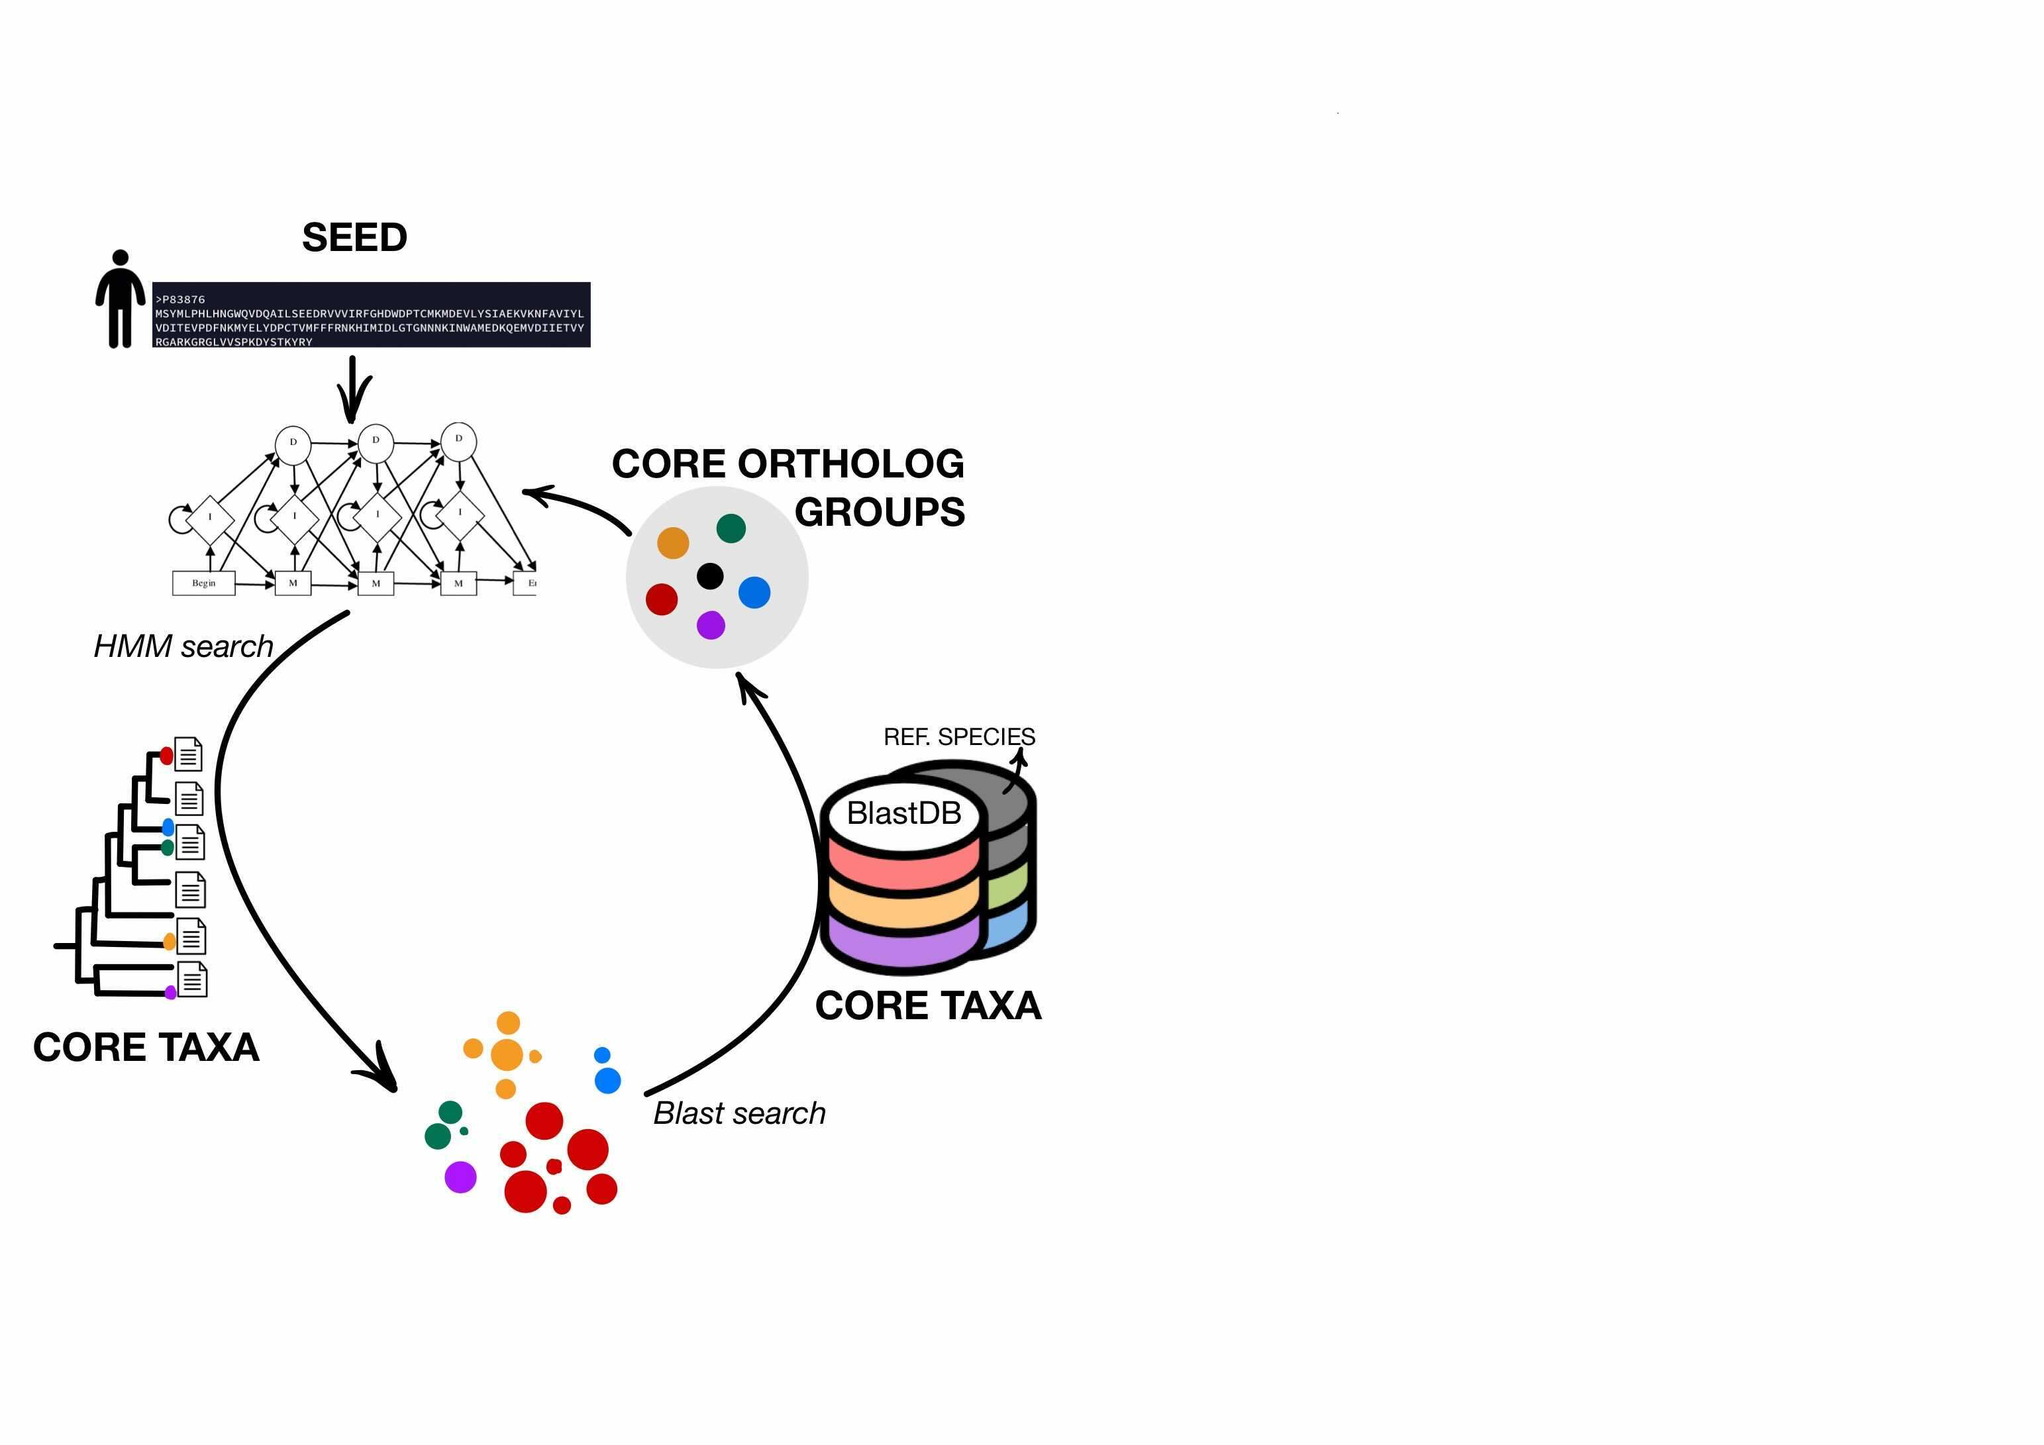
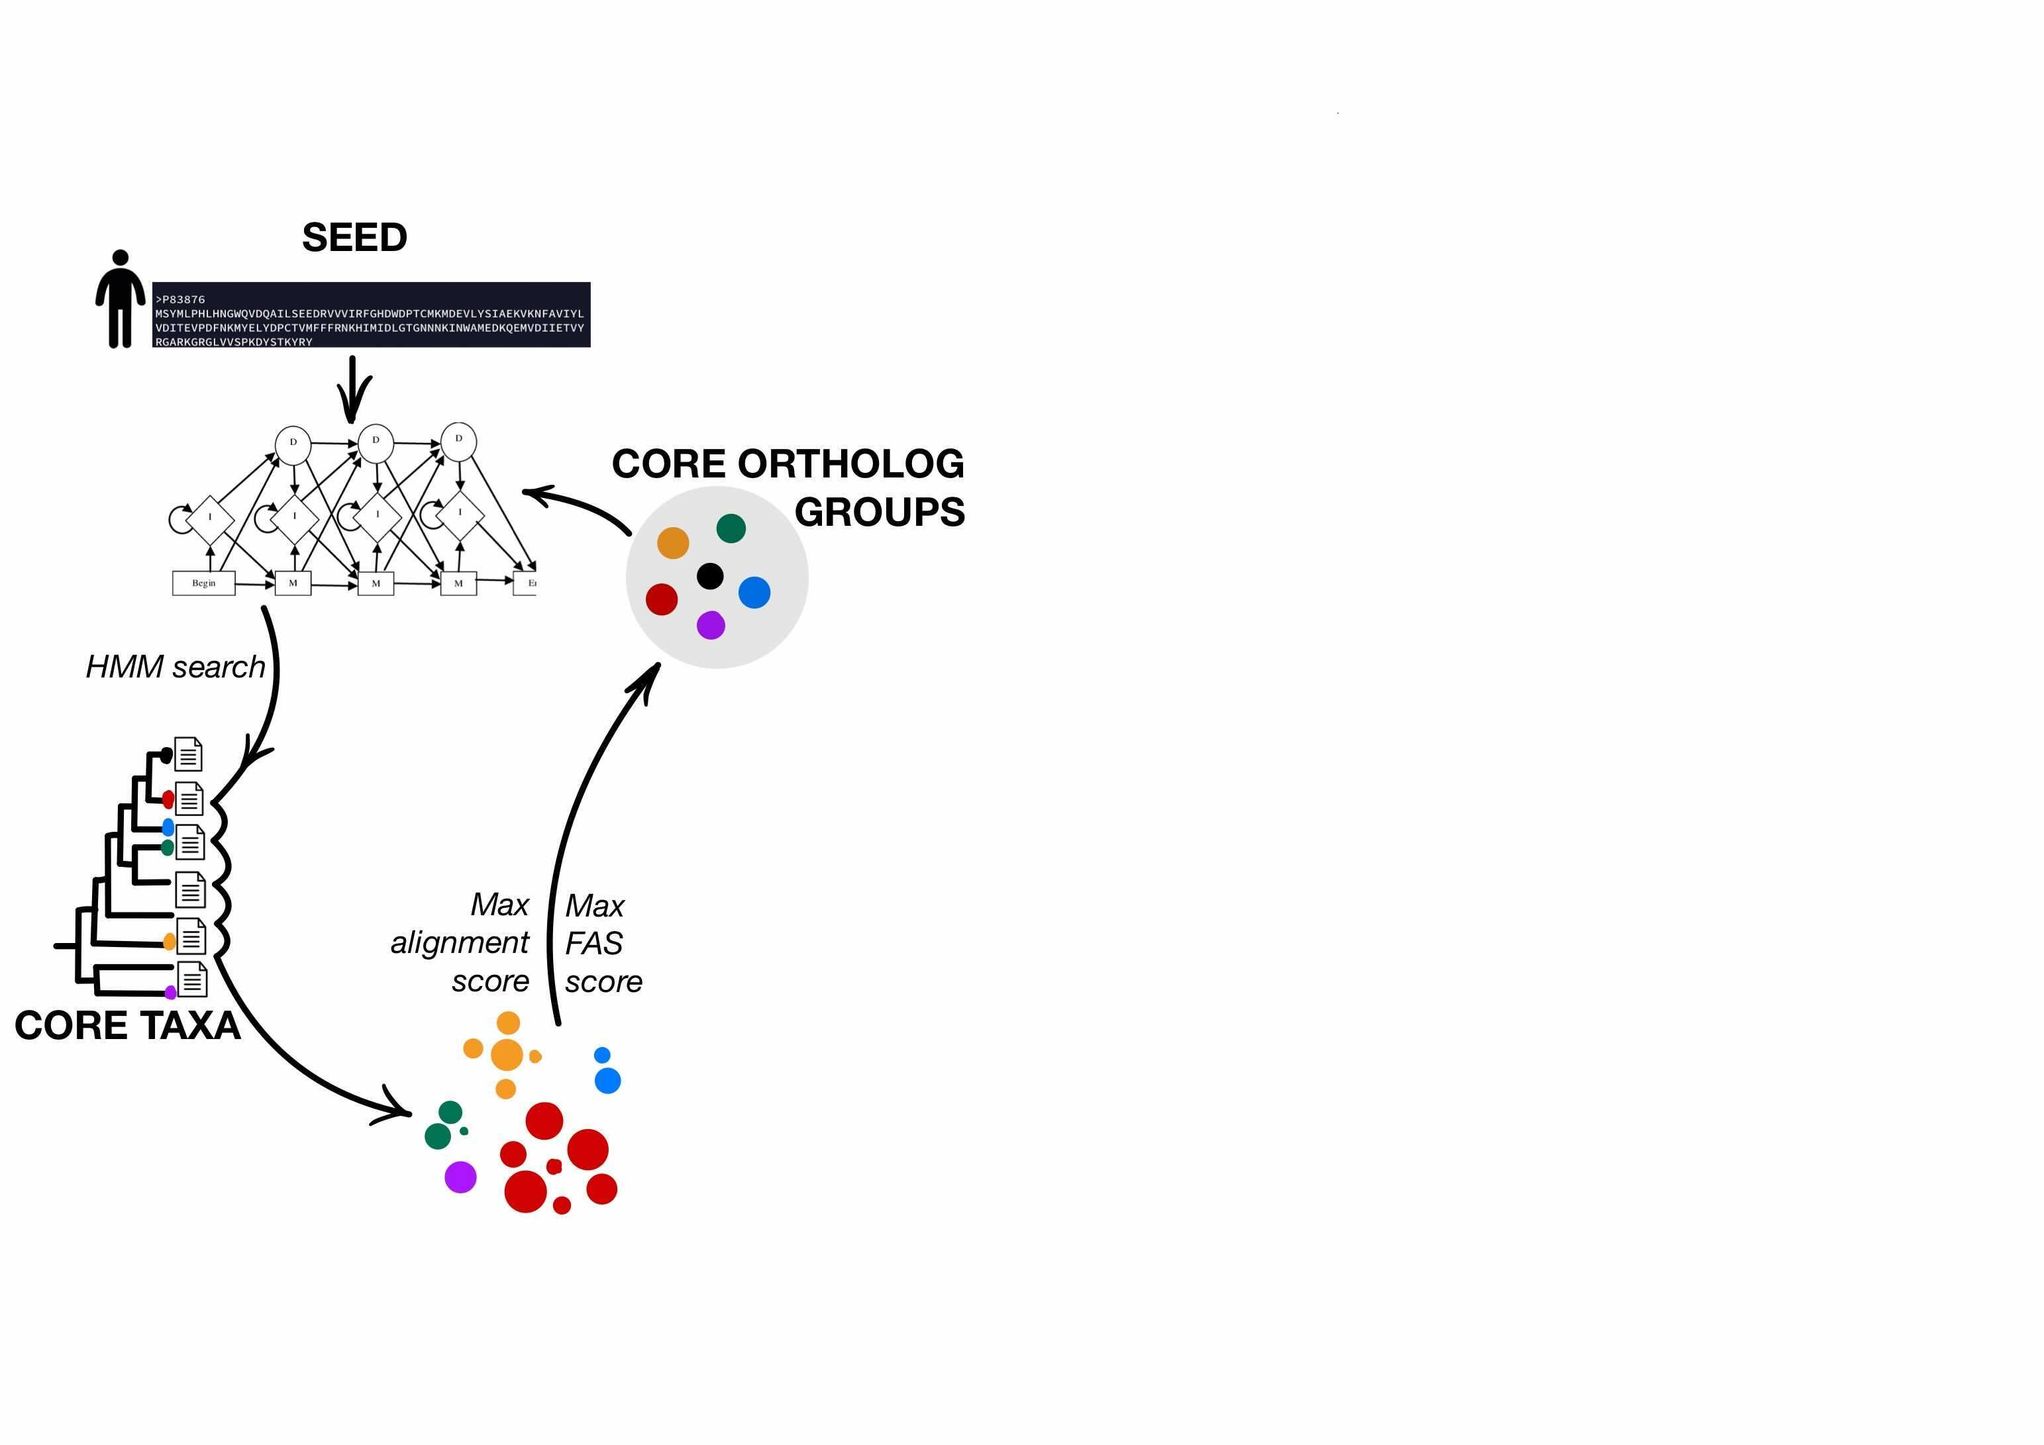
final final

diff --git a/slides/index.html b/slides/index.html
@@ -96,7 +96,7 @@
 							<img src="images/021_hamstr.gif" style='float: top; border:0; box-shadow: none' height=120/>
 						</p>
 						<aside class="notes">
-							Bases on bidirectional search<br>
+							Hamstr is one of the apporoaches that are bases on bidirectional search<br>
 						</aside>
 					</section>
 					<section data-transition="none">
@@ -106,7 +106,11 @@
 						</p>
 						<img src="images/022_hamstr_workflow.png" style='float: top; border:0; box-shadow: none' height=350/>
 						<aside class="notes">
-							some note here
+							Starting from a profile HMM of a set of core orthologs, hamstr search for candidate sequences in protein set G<br>
+							Each candidate will then be searched agains the reference proteome F using Blast<br>
+							If the reciprocal criterion fulfilled, that candidate protein will be added into the group as a new ortholog.<br>
+							So, for hamstr, we need to provide the core ortholog group as an input. The core compilation can be done
+							using other tools like OMA or OrthoMCL
 						</aside>
 					</section>
 					<section data-transition="none">
@@ -121,6 +125,10 @@
 						<p>
 							<img src="images/023_dog.gif" style='float: top; border:0; box-shadow: none' height=180/>
 						<br>fDOG</p>
+						<aside class="notes">
+							Then, we had an idea to combine both the core compilation and the ortholog search into hamstr.
+							At the beginning, we call this new tool as hamstr-oneseq. Then later, we renamed it into fdog.
+						</aside>
 					</section>
 				</section>
 
@@ -129,12 +137,25 @@
 					<h5 style="color: white; background-color: #559951"><strong>How fDOG works</strong></h5>
 					<section data-transition="none">
 						<img src="images/031_fdog_workflow.jpg" style='float: top; border:0; box-shadow: none' height=550/>
+						<aside class="notes">
+							First step of fdog is the core compilation. The profile HMM of the seed sequence will be used to searched for similar sequences
+							in a tree of the core taxa <strong>iteratively</strong> from the close relative to distant relatives of the reference species.
+							The taxon rank can be defined by the user (e.g. only from genus to kingdom).<br>
+							Then, the candidate that maximizes the similarity in both the sequence and the feature architecture will be added in to the core group.<br>
+							This step will be repeated until the number of the core orthologs exceeded a pre-defined value (by default is 5)
+						</aside>
 					</section>
 					<section data-transition="none">
 						<img src="images/032_fdog_workflow.jpg" style='float: top; border:0; box-shadow: none' height=550/>
+						<aside class="notes">
+							After having the core group, the normal hamstr search will be applied to search for ortholog in a set of search taxa
+						</aside>
 					</section>
 					<section data-transition="none">
 						<img src="images/033_fdog_workflow.jpg" style='float: top; border:0; box-shadow: none' height=550/>
+						<aside class="notes">
+							Lastly, fdog calculates the fas scores for all orthologs against the seed protein. The final output can be visualized using PhyloProfile for further study.
+						</aside>
 					</section>
 				</section>
 
@@ -151,6 +172,11 @@
 								<li style="font-size:20px">20,996 human proteins as seed sequences</li>
 							</ul>
 						</p>
+						<aside class="notes">
+							We have done a benchmark to see how the performance of fdog in comparison to other ortholog prediction tools.<br>
+							For this benchmark we used 78 taxa from the 2018 QfO data. In which Human was used as the reference species,
+							and we searched for ortholog of about 21.000 human proteins in the qfo taxa.
+						</aside>
 					</section>
 					<section data-transition="none">
 						<p>Benchmark method</p>
@@ -158,6 +184,9 @@
 						<img src="images/043_benchmark_service.png" style='float: top; border:0; box-shadow: none' height=350/><br>
 						</p>
 						<aside class="notes">
+							We used the Orthology Benchmarking Service to compare fdog with other tools.<br>
+							This is a public service for assessing the performance of different ortholog prediction approaches based on the evaluations of 4 different categories.<br>
+							Here we focused only on the first test, the species tree discordance test, and the last 2, the GO and EC test.<br>
 							<strong>Species tree discordance test</strong>: test for the congruence of inferred orthologs with a trusted reference tree<br>
 							<strong>Gene Ontology test & EC number test</strong>: evaluated  orthology  in  terms of functional similarity by comparing the GO term and EC numbers between the query and ortholog sequences<br>
 						</aside>
@@ -167,6 +196,12 @@
 						<ul>
 							<li style="font-size:15px">Compared using Quest for Orthologs - Challenge 6</li>
 						</ul>
+						<aside class="notes">
+							This is the number of the pairwise orthologs taken into account for the comparison from different approaches.<br>
+							For fdog, we take the whole prediction result without any post filtering, as well as filtered the data by the forward, backward and the mean fas score<br>
+							in which only the pairwises that have the corresponding FAS score not less than 0.75 were considered.<br>
+							We then compared the 4 fdog ortholog sets with InParanoid and OMA-Pairs.
+						</aside>
 					</section>
 					<section data-transition="none">
 						<img src="images/045_ec.jpg" style='float: left; border:0; box-shadow: none' height=200/>
@@ -178,10 +213,6 @@
 							<strong>Tree discordance test</strong>: Robinson-foulds distance: the sum of partitions of data that is implied by one tree but not by the other.
 						</aside>
 					</section>
-
-					<aside class="notes">
-						Oh hey, these are some notes. They'll be hidden in your presentation, but you can see them if you open the speaker notes window (hit »S« on your keyboard).
-					</aside>
 				</section>
 
 				<!-- SLIDE 5 core groups -->
@@ -190,6 +221,10 @@
 					<section data-transition="none">
 						<img src="images/051_qfotree.png" style='float: top; border:0; box-shadow: none' height=350/>
 						<p>... in reflecting the species relationship</p>
+						<aside class="notes">
+							Another aspect we want to check is to see how well the core ortholog groups are in term of explaining the species relationship of the core taxa.
+							This figure shows the schematic reference species tree of the 78 QfO taxa.
+						</aside>
 					</section>
 					<section data-transition="none">
 						<ul>
@@ -205,7 +240,11 @@
 						</ul>
 						</p>
 						<aside class="notes">
-							AU-test: Approximately Unbiased test - uses multi-scale bootstrapping of the site-likelihoods
+							For this, we compared the topology of gene trees created from the proteins of each core group with the (pruned) reference species tree.<br>
+							This is an example of the topology test output from iq-tree. Here we focused on the p-value of the AU test. If the p-value less than 0.05,
+							the topology of the gene tree is significantly different to the one of the species tree.<br>
+							We had in total 18,067 tests for all the core groups that have more than 3 sequences.<br>
+							<strong>AU-test</strong>: Approximately Unbiased test - uses multi-scale bootstrapping of the site-likelihoods
 							obtained from fitting molecular or other data to a set of topologies,
 							in order to identify the subset of topologies that are consistent with the data
 						</aside>
@@ -233,7 +272,12 @@
 								<td>2,043 (11.31%)</td>
 							</tr>
 						</table>
-						<img src="images/054_topoStat.png" style='float: top; border:0; box-shadow: none' height=300><aside class="notes">
+						<img src="images/054_topoStat.png" style='float: top; border:0; box-shadow: none' height=300>
+						<aside class="notes">
+							This is the number of accepted (not significantly different) and rejected (significantly different) gene trees.<br>
+							Before correction for multiple testing problem, 65% of the gene trees was accepted. After corrected using BH correction and Bonferroni correction,
+							the number of accepted trees increased up to 89%.<br>
+							Here we need to applied the multiple testing correction to reduce the false positive rate caused by the high number of multiple statistical tests.<br>
 							<ul>
 								<li>
 									Problem: if one test is performed at the 5% level and the corresponding null hypothesis is true,
@@ -257,18 +301,18 @@
 					<section data-transition="none">
 						<img src="images/055_pvalue_vs_dlogl.png" style='float: top; border:0; box-shadow: none' height=350>
 						<aside class="notes">
-							the mean of delta-log likelihood for accepted topologies is significant smaller than the of of rejected topologies<br>
+							the mean of delta-log likelihood for accepted topologies is significant smaller than the one of rejected topologies<br>
 							(Mann-Whitney-Wilcoxon p-value < 2.2e-16)
 						</aside>
 					</section>
 					<section data-transition="none">
 						<img src="images/056_concord.png" style='float: top; border:0; box-shadow: none' height=400>
 						<aside class="notes">
-							calculate the gene and site concordance factors for the reference species tree of the core taxa using IQ-tree<br>
-							Let take the first node that splits human and chimpanzee as an example:
-							<strong>Gene concordance factor is 45.1</strong> means about 45% of the 18,000 gene trees contains this grouping, and
-							<strong>Site concordance factor is 38.8</strong> shows that about 40% of the sites informative for this branch support it
-							=> Overall, a large fraction of gene trees supports this reference tree topology
+							We also calculated the gene and site concordance factors for the reference species tree of the core taxa using IQ-tree<br>
+							What are these factors? Let take the first node that splits human and chimpanzee as an example:<br>
+							Here, <strong>the gene concordance factor is 45.1</strong> means about 45% of the 18,000 gene trees contains this grouping, and<br>
+							<strong>The site concordance factor is 38.8</strong> shows that about 40% of the sites informative for this branch support it.<br>
+							=> Overall, a large fraction of gene trees supports this reference tree topology<br>
 							<i>However, there’s probably a lot of conflicting signal in some nodes...</i>
 						</aside>
 					</section>
@@ -303,9 +347,10 @@
 							(**) <b>fdog.run</b> using 1 CPU on compute12 (intel i7-6700K 4.0Ghz)
 						</i></p>
 						<aside class="notes">
-							While benchmarking the runtime of fdog, I have split the whole fdog run into many parts
+							How fast is fdog?
+							While benchmarking the runtime of fdog, we have split the whole fdog run into many parts
 							and tried to optimize each part independently.<br>
-							This is the runtime calculated using the current fdog strategy for the human protein set<br>
+							This is the runtime calculated using the current fdog strategy for the human protein set.<br>
 							<strong>Note, for the human protein set, I need to exclude this Q8WZ42 protein out of the rest
 								due to its complex feature annotation (it is a Titin protein => Key component in the assembly and functioning of vertebrate muscles)
 							</strong>
@@ -332,6 +377,9 @@
 					<section data-transition="none">
 						<img src="images/062_hmsruntime_vsLen.png" style='float: top; border:0; box-shadow: none' width=650/>
 						<div class="caption" style="font-size:15px"><i>Correlation coefficient 0.61 for core compilation and 0.24 for ortholog search<br>Pearson p-value < 2.2e-16</i></div>
+						<aside class="notes">
+							The runtime is correlated with the sequence length of the seed protein. The correlation coefficient if 0.6 for the core compilation and 0.24 for the ortholog search.
+						</aside>
 					</section>
 					<section data-transition="none">
 						<p style="color: #5e9ca0; font-size:20px">fdog.run<span style="color: #000000;"> VS</span> <span style="color: #ff0000;">fdogs.run</span>
@@ -345,6 +393,13 @@
 							<img src="images/063_fdog_vs_fdogs.png" style='float: top; border:0; box-shadow: none' width=550/>
 							<p style="font-size:10px"><i>Runtime of 6 randomly selected proteins using 4 CPUs</i></p>
 						</div>
+						<aside class="notes">
+							As being shown before, we have 2 functions to run fdog: fdog.run and fdogs.run. So which one is better?<br>
+							Here we can see clearly that fdogs.run can reduce significantly the time for the core compilation.
+							It is because it will do the core compilation for multiple seed proteins in parallel.<br>
+							The ortholog search does has much benefit from this, because it depends on the number of the search taxa,
+							not on the number of the seed proteins. It only reduced some time for the I/O like reading adn writing files.
+						</aside>
 					</section>
 				</section>
 
@@ -361,8 +416,8 @@
 							<li style="font-size:15px" class="fragment roll-in">Eukaryota originated from within (or as sister to) the Asgard archaea</li>
 						</ol>
 						<aside class="notes">
-							Try to resolve the debated position of the archaea in the species tree of life.<br>
-							A schematic representation of our understanding of the relationships between eukaryotes and archaea over the past 40 years.<br>
+							As an use-case, we try to resolve the debated position of the archaea in the species tree of life using the orthologs predicted by fdog.<br>
+							This is a schematic representation of our understanding of the relationships between eukaryotes and archaea over the past 40 years.<br>
 							Here we have the well-known 3-domains tree of life in the figure a; and the others are the 2-domains tree of life,
 							where eukaryota was placed within the archaea.<br>
 						</aside>
@@ -387,7 +442,12 @@
 							</ul>
 						</ul>
 						<aside class="notes">
-							LG substitution with FreeRate model
+							For the tree reconstruction, we identified 48 core genes that have FAS >= 0.75 & present in at least 50% of the taxa in each supterkingdom
+							(the one in the red box on this profile plot).<br>
+							From that, we got a super-alignment for the 139 taxa with the lenght of about 13,000 amino acids.<br>
+							Then, we used IQ-tree to reconstruct the tree using these parameters:<br>
+							...<br>
+							<i>LG substitution with FreeRate model</i>
 						</aside>
 					</section>
 					<section data-transition="none">
@@ -395,7 +455,8 @@
 						<aside class="notes">
 							This is the ML tree we got from IQ tree. The bootstrap support values are shown in the internal branches,
 							where red are branches that have the bootstrap values between 50 and 99; blue are less then 50 and the others are 100<br>
-							Overall, we had a very well resolved result for the archaea clade. But some of the eukaryota or bacteria still have a
+							The tree was rooted using bacteria as the outgroup.<br>
+							Overall, we had a very well resolved archaea clade. But some of the eukaryota or bacteria species still have a
 							wrong positions, such as HUMAN is placed as sister to chimp and gorrila. But, since we start from the asgard core genes,
 							it is difficult to resolve such a far away nodes.
 						</aside>
@@ -407,9 +468,10 @@
 							To better compare with the different species tree of life hypotheses, I re-draw the previous tree with this schematic tree.<br>
 							Clearly,
 							<ul>
-								<li>it supports the three-domains tree of life</li>
+								<li>it supports the three-domains tree of life (Williams et al. 2020 and Raymann et al. 2015 => 2 domains tree of life)</li>
 								<li>Asgard are polyphyletic (same as Williams et al. 2020) and are sister clade of the other archaea</li>
 								<li>Euryarchaeota are monophyletic (while Williams et al. 2020 and Raymann et al. 2015 showed polyphyletic => used bayesian tree reconstruction)</li>
+								<li>Korarchaeota placed within TACK superphylum (Raymann et al. 2015: outside of TACK, as sister of Euryarchaeota)</li>
 							</ul>
 						</aside>
 					</section>
@@ -418,9 +480,9 @@
 				<section>
 					<h5 style="color: white; background-color: #559951"><strong></strong></h5>
 					<section>
-						<img src="images/081_thanks.gif" style='float: top; border:0' height="250"/>
+						<img src="images/081_thanks.gif" style='float: top; border:0; box-shadow: none' height="250"/>
 						<br>
-						<img src="images/082_qrcode.png" style='float: top; border:0' height="100"/>
+						<img src="images/082_qrcode.png" style='float: top; border:0; box-shadow: none' height="100"/>
 					</section>
 				</section>
 
